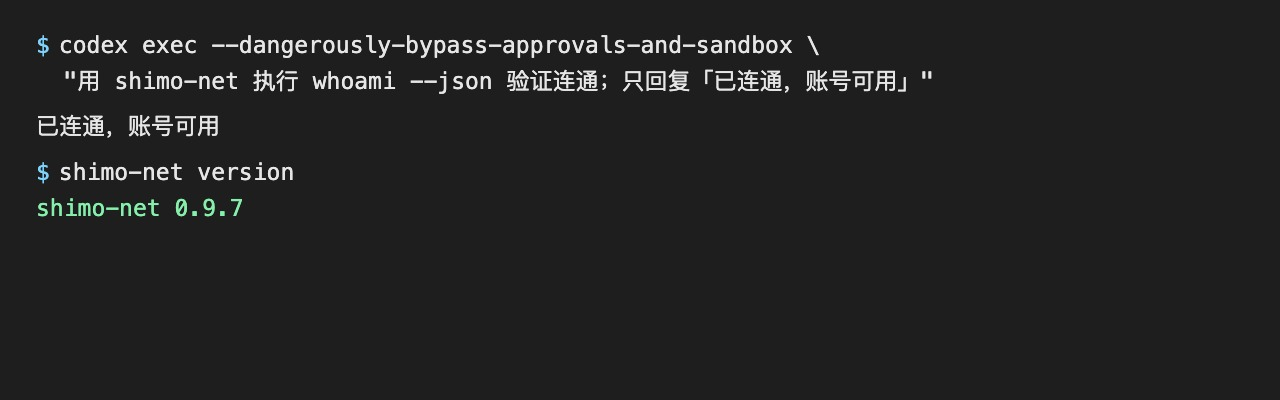
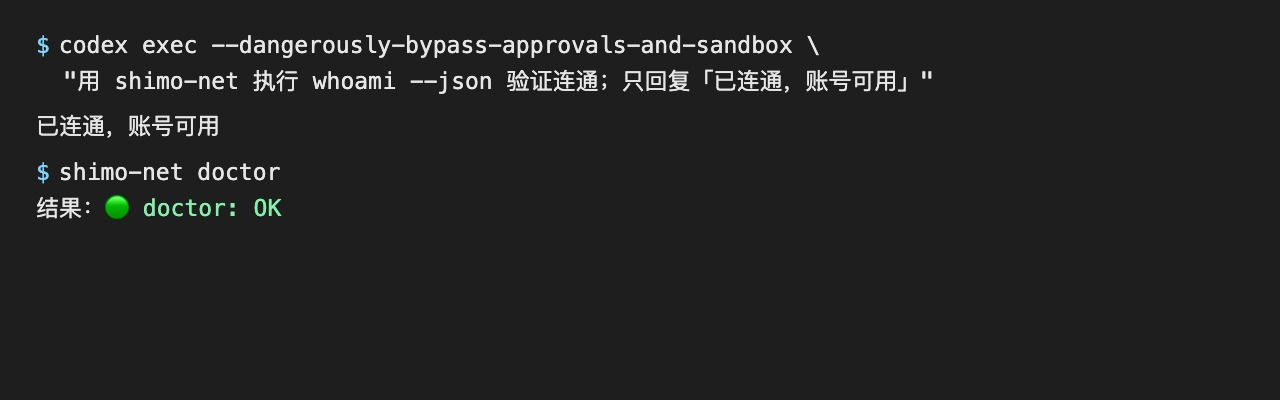
docs: show latest instead of a fixed CLI version

Changed region(s): [[0.0312, 0.48, 0.2188, 0.57], [0.1562, 0.42, 0.25, 0.45]]

diff --git a/docs/tutorials/validation.md b/docs/tutorials/validation.md
@@ -1,12 +1,12 @@
 # Agent 连通与 CLI 能力验证（2026-11-17）
 
-目标：确认四个 Agent 能调用 `shimo-net`，并记录 0.9.7 能力的真实结果。场景对外按当前能力描述，不按内部阶段命名。
+目标：确认四个 Agent 能调用 `shimo-net`，并记录最新版能力的真实结果。场景对外按当前能力描述，不按内部阶段命名。
 
 > 注：教程内图片是按当前界面做的 H5 还原示意，账号、文件名、文件链接已脱敏；真实执行结果以本表记录和 [internal-capability-test-results.md](../internal-capability-test-results.md) 为准。
 
 | Agent | 本机版本 | 入口 | 结果 | 证据 |
 |---|---|---|---|---|
-| WorkBuddy | 5.11.3 | 桌面客户端 | ✅ 通过（本地 0.9.7 包） | `images/workbuddy/real-whoami.jpg` |
+| WorkBuddy | 5.11.3 | 桌面客户端 | ✅ 通过（本地最新版包） | `images/workbuddy/real-whoami.jpg` |
 | DeepSeek Harness | 0.2.1-rc.3 | 桌面客户端 | ✅ 通过 | `images/dsh/real-whoami.jpg` |
 | Codex | 0.144.0-alpha.4 | CLI | ⚠ 默认沙箱拦截 Keychain；加 `--dangerously-bypass-approvals-and-sandbox` 后通过 | `images/codex/real-whoami.jpg` |
 | 豆包工作 | 豆包 2.35.8（工作模式） | 桌面客户端 | ✅ 通过 | `images/doubao/real-whoami.jpg` |
@@ -27,7 +27,7 @@
 
 ## 3. Codex
 
-- 首次用 `codex exec --full-auto`：失败，`shimo-net whoami` 返回「未登录」——Codex 默认沙箱拦截了 Keychain 和浏览器配置；0.9.7 会先尝试复用本机 Chrome 登录态。
+- 首次用 `codex exec --full-auto`：失败，`shimo-net whoami` 返回「未登录」——Codex 默认沙箱拦截了 Keychain 和浏览器配置；最新版会先尝试复用本机 Chrome 登录态。
 - 改用 `codex exec --dangerously-bypass-approvals-and-sandbox`：成功，490ms 返回「已连通，账号可用」。
 - 说明：Codex 侧需要配置允许读取 Keychain 的沙箱策略，或由用户显式授权；`--dangerously-bypass` 只用于本次验证，不应写进日常脚本。
 - 截图：`images/codex/real-whoami.jpg`（CLI 输出）。
@@ -41,7 +41,7 @@
 
 ## 结论
 
-- 4/4 完成：WorkBuddy、DeepSeek Harness、豆包工作、Codex（Codex 需放宽沙箱）。WorkBuddy 另完成 0.9.7 的 schema、空白文稿、表格 API、订阅、导出和浏览器兜底回归，详细清单见 [internal-capability-test-results.md](../internal-capability-test-results.md)。
+- 4/4 完成：WorkBuddy、DeepSeek Harness、豆包工作、Codex（Codex 需放宽沙箱）。WorkBuddy 另完成最新版的 schema、空白文稿、表格 API、订阅、导出和浏览器兜底回归，详细清单见 [internal-capability-test-results.md](../internal-capability-test-results.md)。
 - 共同前提：CLI 已安装到 `~/.local/bin/shimo-net`，已完成 `shimo-net login`，Keychain 有有效会话。
 
 ## 当前场景的验收状态
@@ -55,7 +55,7 @@
 | 严格人工 | 文件锁定、限制编辑、高级权限、成员级授权、彻底删除；CLI 拒绝处理 |
 | 需用户参数 | 单元格历史必须先说明行号和列号；订阅更新先列文件，再按序号打开 |
 
-结论：0.9.7 的 API 入口和浏览器兜底规则已在 WorkBuddy 本地包回归；页面动作仍以截图作为结果证据，严格人工项不会由 CLI 代办。
+结论：最新版的 API 入口和浏览器兜底规则已在 WorkBuddy 本地包回归；页面动作仍以截图作为结果证据，严格人工项不会由 CLI 代办。
 
 
 ### 本轮补充记录（2026-11-11）

diff --git a/docs/tutorials/codex.md b/docs/tutorials/codex.md
@@ -1,6 +1,6 @@
 # Codex × 石墨办公：从打开到第一个结果
 
-> 适用版本：Codex CLI 0.144.0-alpha.4 · shimo-net CLI 0.9.7
+> 适用版本：Codex CLI 0.144.0-alpha.4 · shimo-net CLI 最新版
 > 适用对象：shimo.net 客户及私有化部署客户。照做，20 分钟内完成「打开 Codex → 检查/安装技能 → 登录 → 跑出真实结果」。
 
 ## 0. 开始前
@@ -40,7 +40,7 @@ codex --version
 
 ## 2. 检查 / 安装 shimo-net CLI（已安装可跳过）
 
-先执行 `shimo-net version`；已有就跳到第 3 步登录授权。下面的安装命令只在本机没有 CLI 时使用。
+先执行 `shimo-net doctor`；已有就跳到第 3 步登录授权。下面的安装命令只在本机没有 CLI 时使用。
 
 macOS 终端：
 
@@ -48,7 +48,6 @@ macOS 终端：
 git clone https://github.com/shimo-office/office-suites.git
 cd office-suites
 ./install.command
-shimo-net version
 shimo-net doctor --json
 ```
 
@@ -58,11 +57,10 @@ Windows PowerShell：
 git clone https://github.com/shimo-office/office-suites.git
 cd office-suites
 powershell -ExecutionPolicy Bypass -File .\install.ps1
-shimo-net version
 shimo-net doctor --json
 ```
 
-看到版本和配置就对了：
+看到配置和 doctor 结果就对了：
 
 ![CLI 安装与配置验证](images/common/cli-version.jpg)
 
@@ -118,7 +116,7 @@ codex exec --dangerously-bypass-approvals-and-sandbox \
 
 看到 `已连通，账号可用` 就说明 Codex 能执行本机命令、`shimo-net` 在 PATH、登录态有效。
 
-> **重要**：Codex 默认沙箱可能拦截 Keychain 和浏览器配置。0.9.7 会先尝试复用本机 Chrome 登录态；如果仍提示「未登录」，再放宽沙箱或运行 `shimo-net login`。生产环境应配置允许读取 Keychain 的沙箱策略，不要日常使用 bypass。
+> **重要**：Codex 默认沙箱可能拦截 Keychain 和浏览器配置。最新版会先尝试复用本机 Chrome 登录态；如果仍提示「未登录」，再放宽沙箱或运行 `shimo-net login`。生产环境应配置允许读取 Keychain 的沙箱策略，不要日常使用 bypass。
 
 ## 6. 第二个任务：真实操作
 
@@ -158,7 +156,7 @@ codex exec --dangerously-bypass-approvals-and-sandbox \
 ## 8. 验收清单
 
 - [ ] `codex --version` 能输出版本；
-- [ ] `shimo-net version` 输出当前 latest release 版本；
+- [ ] `shimo-net doctor` 返回 `ok: true`，最后一行是 `结果：🟢 doctor: OK`；
 - [ ] `shimo-net whoami --json` 返回账号；
 - [ ] `~/.codex/skills/shimo-net-cli/SKILL.md` 存在；
 - [ ] 第一个任务返回「已连通，账号可用」；

diff --git a/docs/tutorials/workbuddy.md b/docs/tutorials/workbuddy.md
@@ -1,6 +1,6 @@
 # WorkBuddy × 石墨办公：从打开到第一个结果
 
-> 适用版本：WorkBuddy 5.11.3（桌面客户端）· shimo-net CLI 0.9.7
+> 适用版本：WorkBuddy 5.11.3（桌面客户端）· shimo-net CLI 最新版
 > 适用对象：shimo.net 客户及私有化部署客户。照着做，20 分钟内完成「打开 Agent → 检查/安装市场技能 → 登录授权 → 跑出第一个真实结果」。
 
 ## 0. 开始前
@@ -47,7 +47,6 @@
 
 ```bash
 curl -fsSL https://github.com/shimo-office/office-suites/releases/latest/download/bootstrap.sh | bash -s -- workbuddy
-shimo-net version
 shimo-net doctor --json
 ```
 
@@ -57,19 +56,17 @@ Windows 用 PowerShell 时，下载仓库后执行安装器，或直接安装当
 git clone https://github.com/shimo-office/office-suites.git
 cd office-suites
 powershell -ExecutionPolicy Bypass -File .\install.ps1
-shimo-net version
 shimo-net doctor --json
 ```
 
-正常情况下会看到版本号和配置信息：
+正常情况下会看到配置信息和 doctor 结果：
 
 ![CLI 安装与配置验证](images/common/cli-version.jpg)
 
-你要确认三件事（如果 CLI 已存在，只需确认版本和 doctor）：
+你要确认两件事（如果 CLI 已存在，只需确认 doctor）：
 
-1. `shimo-net version` 输出当前安装的 latest release 版本；
-2. `shimo-net config show` 显示 `https://shimo.net`；
-3. `doctor --json` 的 `ok` 为 `true`，`checks` 五项都是 `ok`；终端最后一行显示 `结果：🟢 doctor: OK`。
+1. `shimo-net config show` 显示 `https://shimo.net`；
+2. `doctor --json` 的 `ok` 为 `true`，`checks` 五项都是 `ok`；终端最后一行显示 `结果：🟢 doctor: OK`。
 
 装完后如果提示 `shimo-net: command not found`，先执行：
 
@@ -230,7 +227,7 @@ shimo-net phase2 <表格链接> --action sheet-merge \
 全部打勾，才算独立完成：
 
 - [ ] WorkBuddy 能正常打开，能看到任务输入框；
-- [ ] `shimo-net version` 输出当前安装的 latest release 版本；
+- [ ] `shimo-net doctor` 返回 `ok: true`，最后一行是 `结果：🟢 doctor: OK`；
 - [ ] `shimo-net config show` 显示 `https://shimo.net`；
 - [ ] `shimo-net whoami --json` 返回账号；
 - [ ] WorkBuddy「已安装」里能看到并启用官方市场版 shimo-net-cli 技能；

diff --git a/docs/tutorials/dsh.md b/docs/tutorials/dsh.md
@@ -1,6 +1,6 @@
 # DeepSeek Harness × 石墨办公：从打开到第一个结果
 
-> 适用版本：DeepSeek Harness 0.2.1-rc.3（桌面客户端）· shimo-net CLI 0.9.7
+> 适用版本：DeepSeek Harness 0.2.1-rc.3（桌面客户端）· shimo-net CLI 最新版
 > 适用对象：shimo.net 客户及私有化部署客户。照做，20 分钟内完成「打开 DSH → 检查/安装技能 → 登录 → 跑出真实结果」。
 
 ## 0. 开始前
@@ -35,7 +35,7 @@
 
 ## 2. 检查 / 安装 shimo-net CLI（已安装可跳过）
 
-先执行 `shimo-net version`；已有就跳到第 3 步登录授权。下面的安装命令只在本机没有 CLI 时使用。
+先执行 `shimo-net doctor`；已有就跳到第 3 步登录授权。下面的安装命令只在本机没有 CLI 时使用。
 
 macOS 终端：
 
@@ -43,7 +43,6 @@ macOS 终端：
 git clone https://github.com/shimo-office/office-suites.git
 cd office-suites
 ./install.command
-shimo-net version
 shimo-net doctor --json
 ```
 
@@ -53,11 +52,10 @@ Windows PowerShell：
 git clone https://github.com/shimo-office/office-suites.git
 cd office-suites
 powershell -ExecutionPolicy Bypass -File .\install.ps1
-shimo-net version
 shimo-net doctor --json
 ```
 
-看到版本和配置就对了：
+看到配置和 doctor 结果就对了：
 
 ![CLI 安装与配置验证](images/common/cli-version.jpg)
 
@@ -159,7 +157,7 @@ cp cli/SKILL.md ~/.dsh/skills/shimo-net-cli/SKILL.md
 ## 8. 验收清单
 
 - [ ] DSH 能打开新会话；
-- [ ] `shimo-net version` 输出当前 latest release 版本；
+- [ ] `shimo-net doctor` 返回 `ok: true`，最后一行是 `结果：🟢 doctor: OK`；
 - [ ] `shimo-net whoami --json` 返回账号；
 - [ ] `~/.dsh/skills/shimo-net-cli/SKILL.md` 存在；
 - [ ] 第一个任务返回「已连通，账号可用」；

diff --git a/docs/tutorials/doubao.md b/docs/tutorials/doubao.md
@@ -1,6 +1,6 @@
 # 豆包工作 × 石墨办公：从打开到第一个结果
 
-> 适用版本：豆包 2.35.8「工作」模式 · shimo-net CLI 0.9.7
+> 适用版本：豆包 2.35.8「工作」模式 · shimo-net CLI 最新版
 > 适用对象：shimo.net 客户及私有化部署客户。照做，20 分钟内完成「打开豆包工作 → 检查/安装 CLI → 登录 → 跑出真实结果」。
 
 ## 0. 开始前
@@ -37,7 +37,7 @@
 
 ## 2. 检查 / 安装 shimo-net CLI（已安装可跳过）
 
-先执行 `shimo-net version`；已有就跳到第 3 步登录授权。下面的安装命令只在本机没有 CLI 时使用。
+先执行 `shimo-net doctor`；已有就跳到第 3 步登录授权。下面的安装命令只在本机没有 CLI 时使用。
 
 macOS 终端：
 
@@ -45,7 +45,6 @@ macOS 终端：
 git clone https://github.com/shimo-office/office-suites.git
 cd office-suites
 ./install.command
-shimo-net version
 shimo-net doctor --json
 ```
 
@@ -55,11 +54,10 @@ Windows PowerShell：
 git clone https://github.com/shimo-office/office-suites.git
 cd office-suites
 powershell -ExecutionPolicy Bypass -File .\install.ps1
-shimo-net version
 shimo-net doctor --json
 ```
 
-看到版本和配置就对了：
+看到配置和 doctor 结果就对了：
 
 ![CLI 安装与配置验证](images/common/cli-version.jpg)
 
@@ -149,7 +147,7 @@ shimo-net whoami --json
 ## 8. 验收清单
 
 - [ ] 豆包能切到「工作」，输入框下方是「本地电脑」；
-- [ ] `shimo-net version` 输出当前 latest release 版本；
+- [ ] `shimo-net doctor` 返回 `ok: true`，最后一行是 `结果：🟢 doctor: OK`；
 - [ ] `shimo-net whoami --json` 返回账号；
 - [ ] 第一个任务返回「已连通，账号身份正常」；
 - [ ] 第二个任务返回「名称 / 类型 / 链接」；

diff --git a/cli/安装使用说明.md b/cli/安装使用说明.md
@@ -1,6 +1,6 @@
 # shimo-net CLI 安装与使用说明
 
-版本 0.9.7 · macOS / Linux / Windows · Go 单二进制
+最新版 · macOS / Linux / Windows · Go 单二进制
 
 ---
 
@@ -78,7 +78,7 @@ bin/shimo-net version
 ### 3.4 确认命令可用
 
 ```bash
-shimo-net version       # shimo-net 0.9.7
+shimo-net version       # 输出当前最新版版本号
 shimo-net doctor        # 检查 runtime / chrome / origin / 凭据 / account，最后一行应为「结果：🟢 doctor: OK」
 ```
 
@@ -144,7 +144,7 @@ shimo-net whoami
 
 ### 4.2.1 已经在 Chrome 登录过？
 
-0.9.6 起不需要再登录一次。只要本机 Chrome / Chromium / Edge / Brave 里已经登录 shimo.net，CLI 会在 Keychain 没有会话或返回 401 时自动复用浏览器会话，验证后写回 Keychain：
+CLI 已支持免二次登录。只要本机 Chrome / Chromium / Edge / Brave 里已经登录 shimo.net，CLI 会在 Keychain 没有会话或返回 401 时自动复用浏览器会话，验证后写回 Keychain：
 
 ```bash
 shimo-net session status --json     # 看会话来自 Keychain / 文件 / 浏览器

diff --git a/cli/README.md b/cli/README.md
@@ -1,6 +1,6 @@
 # shimo-net
 
-`shimo-net` 是 shimo.net（含客户私有部署）的命令行工具，覆盖 **28 个办公场景、50 项能力**。当前版本 **0.9.7**，Go 单二进制。
+`shimo-net` 是 shimo.net（含客户私有部署）的命令行工具，覆盖 **28 个办公场景、50 项能力**。当前为最新版，Go 单二进制。
 
 - 直连 `/api/v1`，不开端口、不跑常驻服务。
 - 登录一次：Chrome 专用窗口 → macOS Keychain（Windows 为 Credential Manager）；过期就地重登。
@@ -74,7 +74,7 @@ shimo-net doctor
 - 任意命令加 `--relogin`，遇 401 自动登录并重试；
 - 不要把密码 / cookie 贴进对话、Issue 或日志。
 
-### 登录态复用（0.9.6）
+### 登录态复用
 
 Keychain 没有会话、或现有会话返回 401 时，CLI 会自动从本机 Chrome / Chromium / Edge / Brave 的已登录配置复用 shimo.net 会话：读取完整 cookie jar（`sid`、`smdev-ws-route`、`deviceId` 等），验证后写回 Keychain（写回失败时回退到 0600 文件）。不需要用户二次登录。
 

diff --git a/README.md b/README.md
@@ -46,7 +46,7 @@ shimo-net login
 
 > 安装器会把命令放到 `~/.local/bin/shimo-net`（Windows 为 `%LOCALAPPDATA%\shimo-net\shimo-net.exe`）。有 Go 时本地构建；没有 Go 时自动下载 [release](https://github.com/shimo-office/office-suites/releases) 里的对应平台二进制。如果提示找不到命令，把安装目录加进 `PATH`。
 
-> **已经在 Chrome 里登录过？** 0.9.6 会在 Keychain 没有会话时自动复用 Chrome / Chromium / Edge / Brave 的登录态，验证后写回 Keychain；`shimo-net open <链接>` 和 `--default` 都会注入完整 cookie jar，不需要再登录一次。手动检查：`shimo-net session status --json`。
+> **已经在 Chrome 里登录过？** CLI 会在 Keychain 没有会话时自动复用 Chrome / Chromium / Edge / Brave 的登录态，验证后写回 Keychain；`shimo-net open <链接>` 和 `--default` 都会注入完整 cookie jar，不需要再登录一次。手动检查：`shimo-net session status --json`。
 
 **客户私有部署**只改网址，不另装一套：
 

diff --git a/docs/internal-capability-matrix.md b/docs/internal-capability-matrix.md
@@ -1,6 +1,6 @@
 # 内部能力确认矩阵
 
-本表汇总当前 Go CLI `0.9.7` 已支持的 28 个场景和 50 项能力。表中的“API”指已在石墨编辑器 API 文档中确认的接口；已封装能力直接由 CLI 调用，未提供稳定接口的功能仍走页面操作。
+本表汇总当前 Go CLI 最新版已支持的 28 个场景和 50 项能力。表中的“API”指已在石墨编辑器 API 文档中确认的接口；已封装能力直接由 CLI 调用，未提供稳定接口的功能仍走页面操作。
 
 已核对的后端接口：[获取文件内容中所有的 @ 人信息列表](https://support.shimo.net/apidoc/docs-site/6000018/api-3470923)、[获取文档中的评论列表](https://support.shimo.net/apidoc/docs-site/6000018/co1.8.20260630/api-3470916)。
 

diff --git a/docs/tutorials/README.md b/docs/tutorials/README.md
@@ -23,7 +23,7 @@
 ## 客户独立验收路径
 
 1. 打开已安装的 Agent，截图主界面。
-2. 在终端执行 `shimo-net version`，应看到当前 latest release 版本。
+2. 在终端执行 `shimo-net doctor`，应看到 `ok: true` 和 `结果：🟢 doctor: OK`。
 3. 执行 `shimo-net whoami --json`，应返回账号；不想看账号就只看退出码 0。
 4. 在 Agent 里输入：`用 shimo-net 执行 whoami --json 验证连通；只回复「已连通，账号可用」`，应返回「已连通」。
 5. 再输入：`用 shimo-net info <一个你有权限的链接> 返回名称、类型、链接`，应返回三项。
